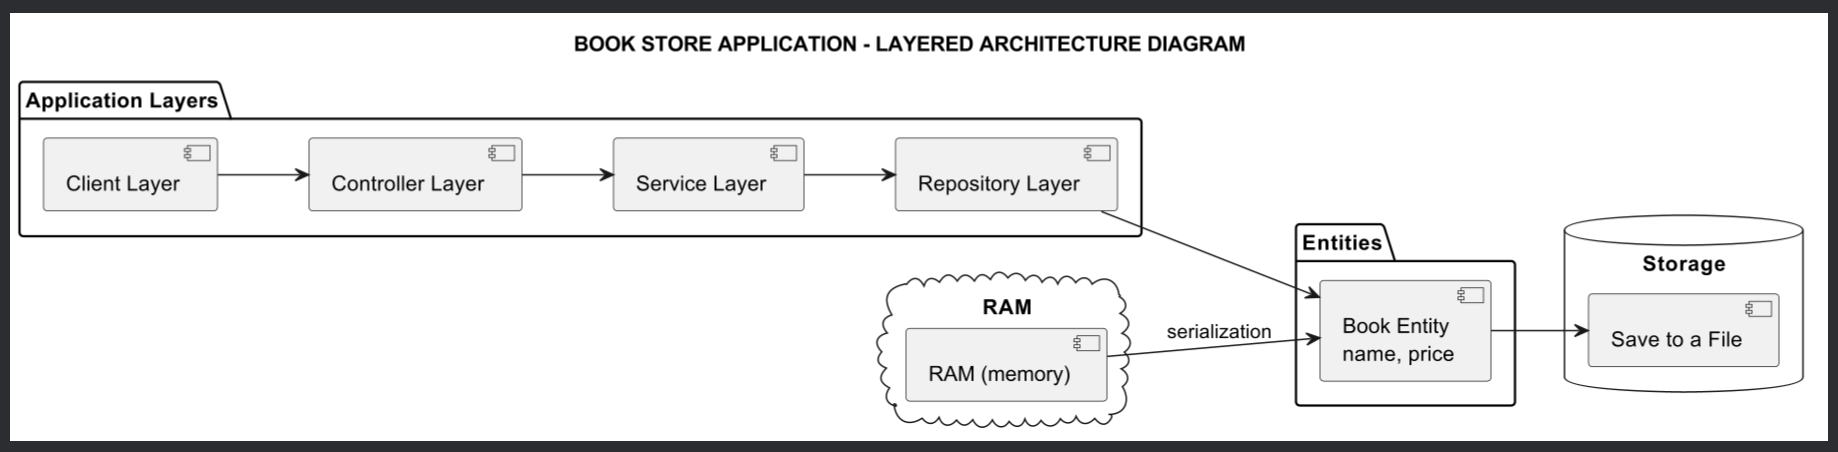
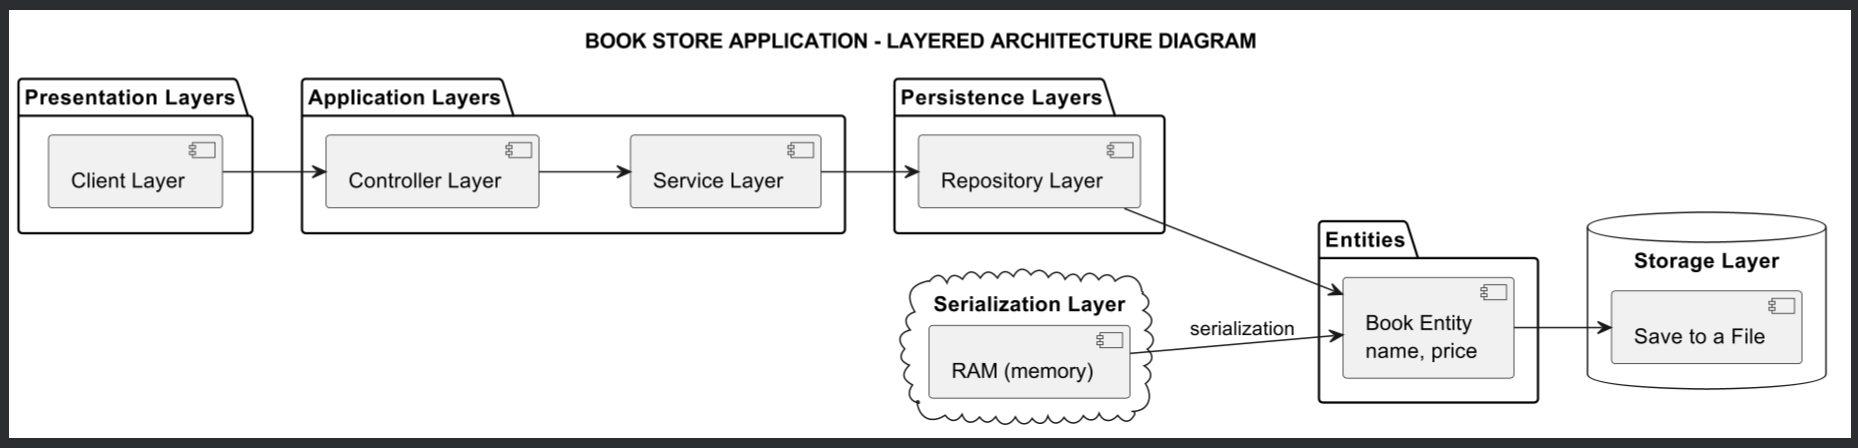
update README and layered architecture

Changed region(s): [[0.0, 0.0, 1.0, 0.9688], [0.3101, 0.0625, 0.6823, 0.125]]

diff --git a/README.md b/README.md
@@ -2,21 +2,41 @@
 
 ## Project Overview
 
-The Bookstore Application is a Java-based system designed to manage books and orders for a bookstore. It allows authors
-to create, view, update, and delete books, while customers can browse and purchase books. The application uses a layered
-architecture to ensure a clear separation of concerns, making it robust, maintainable, and scalable. Key features
-include book management, order processing, and data persistence using serialization.
+In this project, I built a Java-based Bookstore Application to manage books and orders. Authors can create, view,
+update, and delete books, while customers can browse and purchase them. The application uses a layered architecture for
+robustness, maintainability, and scalability. Key features include book management, order processing, and data
+persistence with serialization.
+
+I created this application as a proof-of-concept project to practice and showcase my skills in Java programming,
+object-oriented
+design, and software architecture. It demonstrates my ability to build scalable applications, implement data
+persistence, and manage complex system interactions.
+
+## My skills through completing the project
+
+* Java programming: Built a comprehensive backend.
+* Object-oriented design: Applied best practices and the Adapter design pattern.[[1]](#1)
+* Layered Architecture: Ensured clear separation of concerns.[[2]](#2)
+* Data Persistence: Implemented robust serialization.[[3]](#3)
+* System management: Managed complex component interactions.
 
 ## Architecture Overview
+
+### Layered Architecture Diagram
+
+![layered-architecture](assets/LayeredArchitectureDiagram.png)
 
 The Bookstore Application follows a layered architecture to separate concerns and enhance maintainability. The
 architecture consists of the following layers:
 
-1. Controller Layer: Manages client interactions and handles user inputs and outputs.
-2. Service Layer: Contains business logic and validation rules.
-3. Repository Layer: Handles database-related operations.
-4. Converter Layer: Converts data transfer objects (DTOs) to entity classes for database operations and vice versa.
-5. Serialization Layer: Manages serialization and deserialization of objects for data persistence.
+1. **Client Layer** (i.e. Presentation Layer): This layer handles user interactions.
+2. **Controller Layer**: Manages client interactions and handles user inputs and outputs.
+3. **Service Layer** : Contains business logic and validation rules.
+4. **Repository Layer** (i.e. Persistence Layer): Handles database-related operations.
+5. **Entities**: Represents the data structures (data models).
+6. **Serialization Layer**: Manages serialization and deserialization of objects for data persistence. This layer helps
+   to convert objects to a savable format.
+7. **Storage Layer** (i.e. Database Layer): Serves as physical storage of serialized objects, e.g. `BookEntity`.
 
 ### Use Case Diagram
 
@@ -38,19 +58,36 @@ books. This diagram also shows the functionality provided to both types of users
 The sequence diagram below illustrates the interaction between Java classes and their methods for processing a book
 order:
 
-1. BookController: Handles user requests and has methods like add and getBook.
-2. BookService: Manages business logic, including converting DTOs to entities and vice versa.
-3. BookRepository: Communicates with the database and handles CRUD operations.
-4. BookSerializer: Manages serialization and deserialization of BookEntity objects.
+1. `BookController`: Handles user requests and has methods like `add` and `getBook`.
+2. `BookService`: Manages business logic, including converting DTOs to entities and vice versa.
+3. `BookRepository`: Communicates with the database and handles CRUD operations.
+4. `BookSerializer`: Manages serialization and deserialization of `BookEntity` objects.
 
 **Order Processing Steps:**
 
-1. BookController initiates the order process by calling BookService.add.
-2. BookService converts BookDTO to BookEntity and calls BookRepository.add.
-3. BookRepository serializes the BookEntity and saves it to a file.
-4. To retrieve a book, BookController calls BookService.getBook.
-5. BookService calls BookRepository.getDetail to deserialize the BookEntity from the file and convert it back to
-   BookDTO.
+1. `BookController` initiates the order process by calling `BookService.add`.
+2. `BookService` converts `BookDTO` to `BookEntity` and calls `BookRepository.add`.
+3. `BookRepository` serializes the `BookEntity` and saves it to a file.
+4. To retrieve a book, `BookController` calls `BookService.getBook`.
+5. `BookService` calls `BookRepository.getDetail` to deserialize the `BookEntity` from the file and convert it back to
+   `BookDTO`.
+
+## Technology Stack
+
+### Backend
+
+* Java: The core programming language used for development.
+* Serialization: For data persistence and retrieval.
+
+### Frontend
+
+(Currently, there is no frontend implementation. This can be added using technologies like Angular, React, or any other
+frontend framework.)
+
+### Server/Database
+
+* Temporary Storage: Uses Java Collections for temporary storage of book data.
+* Serialization: Implements serialization and deserialization for data persistence.
 
 ## Installation
 
@@ -67,77 +104,37 @@ cd bookstore-application
 
 #### 2. Set Up Your Development Environment:
 
-Ensure you have Java JDK installed (version 8 or above).
-Use an IDE like IntelliJ IDEA or Eclipse.
+* Ensure you have Java JDK installed (version 8 or above).
+* Use an IDE like IntelliJ IDEA or Eclipse.
 
 #### 3. Compile the Project:
 
-Open the project in your IDE.
-Build the project to ensure all dependencies are correctly resolved.
+* Open the project in your IDE.
+* Build the project to ensure all dependencies are correctly resolved.
 
 #### 4. Run the Application:
 
-Run the BookClient class to test the functionality.
+* Run the BookClient class to test the functionality.
 
 ### Environment Setup
 
 * Java JDK: Install Java Development Kit (JDK) version 8 or above.
 * IDE: Use IntelliJ IDEA, Eclipse, or any other Java IDE for development.
 
-## Technology Stack
-
-### Backend
-
-* Java: The core programming language used for development.
-* Serialization: For data persistence and retrieval.
-* JUnit: For testing the application.
-
-### Frontend
-
-(Currently, there is no frontend implementation. This can be added using technologies like Angular, React, or any other
-frontend framework.)
-
-### Server/Database
-
-* Temporary Storage: Uses Java Collections for temporary storage of book data.
-* Serialization: Implements serialization and deserialization for data persistence.
-
-## Features
-
-### Author Functions:
-
-* Create Books: Authors can create multiple books.
-* View Book Details: Authors can view details of a specific book.
-* View All Books: Authors can view a list of all books they have created.
-* Search Books: Authors can search for books by name.
-* Update Book Details: Authors can update the details of a book.
-* Delete Books: Authors can delete a particular book.
-
-### Customer Functions:
-
-* View All Books: Customers can view books from all authors.
-* View Book Details: Customers can view the details of a specific book.
-* Search Books: Customers can search for books by name.
-* Place Orders: Customers can place orders for books.
-* View Purchased Books: Customers can view all their purchased or ordered books in their catalog.
-
-### Additional Features:
-
-* Sales Reports for Authors: Show the number of books sold and total revenue over a period.
-
 ## Usage
 
 ### 1. Running the Application:
 
-Execute the main method in the BookClient class.
+Execute the main method in the `BookClient` class.
 The BookClient will simulate adding a book and retrieving its details, showcasing the application's core functionality.
 
 ### 2. Interacting with the Application:
 
-Use the BookController to manage books and interact with the BookService layer.
-The BookService layer handles business logic and interacts with the BookRepository for data persistence.
+Use the `BookController` to manage books and interact with the `BookService` layer.
+The `BookService` layer handles business logic and interacts with the `BookRepository` for data persistence.
 
-## Tests
+<!--
+## Tests (optional)
 
 ### 1. Unit Tests:
 
@@ -157,3 +154,19 @@ Alternatively, use build tools like Maven or Gradle to run tests from the comman
 # Example for Maven
 mvn test
 ```
+-->
+
+## References
+
+<a id="1">[1]</a> S. Metsker and W. C. Wake, "Chapter 3. Adapter," in Design Patterns in Java. Pearson Education, 2006. [Online].
+Available: https://books.google.ca/books?id=S5ebGvuLJqQC&pg=PA17. [Accessed: Jun. 23, 2024].
+
+<a id="2">[2]</a> M. Richards, "Chapter 1. Layered Architecture," in Software Architecture Patterns, O’Reilly Online
+Learning. [Online].
+Available: https://www.oreilly.com/library/view/software-architecture-patterns/9781491971437/ch01.html. [Accessed: Jun. 23, 2024].
+
+<a id="3">[3]</a> "Introduction to Java Serialization," Baeldung, May 15, 2017. [Online].
+Available: https://www.baeldung.com/java-serialization. [Accessed: Jun. 23, 2024].
+
+
+
